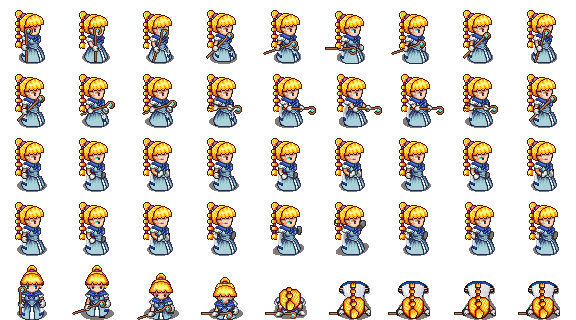
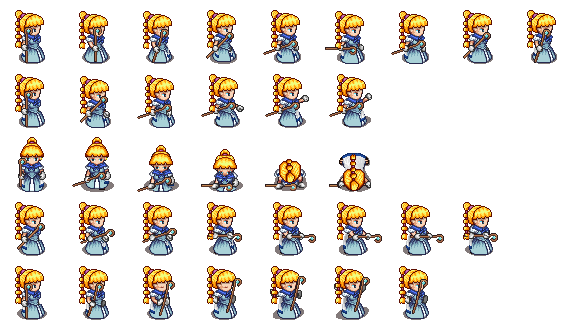
fixed some shit with animations

diff --git a/include/macros.h b/include/macros.h
@@ -32,7 +32,7 @@ constexpr float DEF_MVSPD = 5.1;
 // ----------------------------------------------
 enum CharacterAnimation
 {
-	_walk, _hurt, _idle, _death, _attack, _specialAttack, SPRITE_ROWS
+	_walk, _idle, _death, _attack, _specialAttack, SPRITE_ROWS
 };
 
 struct AnimationParams {
@@ -40,29 +40,31 @@ struct AnimationParams {
 	float _switchTime; // remove switch time because it's 0.3f for all.
 };
 
-const AnimationParams characterParams = { sf::Vector2f(10,6), 0.3f };
+const AnimationParams PlayerParams = { sf::Vector2f(9,5), 0.3f };
+const AnimationParams characterParams = { sf::Vector2f(10,5), 0.3f };
 const AnimationParams projectileParams = { sf::Vector2f(8, 1), 0.3f };
 const AnimationParams effectParams = { sf::Vector2f(5, 1), 0.3f };
 
 const std::vector<std::vector<int>> CharacterRowLengths = {
-	{ 6, 4, 9, 8, 7, 7 },
-	{ 6, 4, 7, 8, 5, 8 },
-	{ 6 ,4 ,9 ,8 ,7 ,7 },
-	{ 6, 2, 3, 4, 4, 0 },
-	{ 6, 2, 3, 4, 5, 0 },
-	{ 4, 2, 3, 2, 3, 0 }
+/* cleric*/	{9, 6, 6, 8, 7},
+/* knight*/	{9, 8, 6, 6, 7},
+/* archer*/	{9 ,6 ,6 ,8 ,7},
+/* demon */	{6, 3, 4, 4, 0},
+/* imp */	{6, 3, 4, 5, 0},
+/* miniDra*/{4, 3, 2, 3, 0}
 };
 
 const std::vector<std::vector<int>> EffectsSSLengths = { {5} };
 
-const std::vector<std::vector<int>> ProjRowlengths = { 
-	{8}, {11} , {8} , {12} , 
-	{16} , {10} , {0} 
-};
-
 // ----------------------------------------------
 //					Effects						-
 // ----------------------------------------------
+
+enum class AttackType
+{
+	Single , Multi , Self
+};
+
 enum Effects
 {
 	_heal, _damage, _defend, _drainLife, _fear, NUM_OF_EFFECTS
@@ -84,21 +86,21 @@ enum Skills
 };
 
 const float skillCooldowns[NUM_OF_CHARS][NUM_OF_SKILLS] = {
-	{1.75f, 20.f, 30.f , 100.f} ,
-	{1.65f ,30.f,  30.f, 100.f } ,
-	{1.7f, 5.f , 5.f , 100.f} ,
-	{1.5f},
-	{1.65f},
-	{1.7f}
+/* cleric*/		{1.75f, 20.f, 30.f , 100.f} ,
+/* knight*/		{1.65f ,30.f,  30.f, 100.f } ,
+/* witch*/		{1.7f, 5.f , 5.f , 100.f} ,
+/* demon*/		{1.5f},
+/* imp */		{1.65f},
+/* miniDragon*/	{1.7f}
 };
 
 const float skillFactors[NUM_OF_CHARS][NUM_OF_SKILLS] = {
-	{1.f, 1.2f, 1.75f , 1.f},
-	{1.f ,1.5f, 1.3f, 1.f },
-	{1.f, 1.5f , 1.5f , 1.f},
-	{1.f},
-	{1.f},
-	{1.f}
+/* cleric*/		{1.f, 1.2f, 1.75f , 1.f},
+/* knight*/		{1.f ,1.5f, 1.3f, 1.f},
+/* witch*/		{1.f, 1.5f , 1.5f , 1.f},
+/* demon*/		{1.f},
+/* imp */		{1.f},
+/* miniDragon*/	{1.f}
 };
 
 const std::string skillTextures[NUM_OF_PLAYERS][NUM_OF_SKILLS] ={	
@@ -128,7 +130,6 @@ const sf::Vector2f continueButtonPos(615, 450);
 const sf::Vector2f restartButtonPos(615, 500);
 const sf::Vector2f exitButtonPos(615, 550);
 const sf::Vector2f pauseButtonPos(1200, 200);
-constexpr auto singleTarget = true;
 constexpr auto onPlayer = true;
 constexpr auto isActive = true;
 
@@ -179,17 +180,23 @@ enum ObjectEnums
 enum ProjEnums
 {
 	_healBall, _fireProj, _energy, _lightning,
-	_tesla, _waterStrike, _none,
+	_tesla, _waterStrike, _fireBreath, _arrow, _none,
 	NUM_OF_PROJ
 };
 
 const std::string textures[NUM_OF_OBJECTS] = {
-	"cleric1.png" , "knightSS.png", "witch.png" ,"Demon.png",
+	"cleric.png" , "knight.png", "archer.png" ,"Demon.png",
 	"Imp.png", "miniDragon.png", "select.png" };
 
 const std::vector<std::string > ProjTextrues = { 
-	"healProj.png", "fireBlast.png", "energy.png", "lightning.png", 
-	"tesla_ball.png", "water_strike.png", "none" 
+	"healProj.png", "fireBlast2.png", "energy.png", "lightning.png", 
+	"tesla_ball.png", "water_strike.png", "fireBreath.png" ,
+	"arrow.png","none" 
+};
+
+const std::vector<std::vector<int>> ProjRowlengths = {
+	{8}, {11} , {8} , {12} ,
+	{16} , {10} , {8} , {0}
 };
 
 // Map ------------------------------------------
@@ -212,12 +219,12 @@ enum Stats
 
 const std::vector<std::vector<float>> charactersStats =
 {
-	/* cleric */ { 70.f, 2.f, 6.f, 800.f , 10.f},
-	/* knight */ { 120.f, 3.f, 15.f, 40.f , 20.f},
-	/* Witch */ { 90.f, 2.f, 2000.f, 600.f , 13.f},
-	/* dummy  */ { 80.f, 4.f, 10.f, 40.f , 15.f},
-	/* imp	  */ { 75.f , 3.f , 20.f , 400.f , 10.f},
-	/* miniDrag */ {90.f , 4.f , 25.f , 200.f , 35.f}
+	/* cleric */	{ 70.f, 2.f, 6.f, 800.f , 10.f},
+	/* knight */	{ 120.f, 3.f, 15.f, 40.f , 20.f},
+	/* witch */		{ 90.f, 2.f, 2000.f, 600.f , 13.f},
+	/* demon  */	{ 80.f, 4.f, 30.f, 40.f , 15.f},
+	/* imp	  */	{ 75.f , 3.f , 20.f , 400.f , 10.f},
+	/* miniDrag */	{90.f , 4.f , 25.f , 200.f , 35.f}
 };
 
 // Movement and Steering ------------------------

diff --git a/src/CharacterSrc/Character.cpp b/src/CharacterSrc/Character.cpp
@@ -18,7 +18,7 @@ void Character::update(sf::Vector2f steerForce, float deltaTime,
 					   vector<std::shared_ptr<Enemy>> m_enemies)
 {
 	this->m_hpBar.setPosition(this->getPosition());
-	
+
 	if (!isAlive())
 		return;
 
@@ -83,16 +83,27 @@ void Character::updateSkills(const float deltaTime, vector<std::shared_ptr<Playe
 
 	for (auto& skill : this->m_skills)
 	{
-		if (skill->getSingleTarget() && this->getTarget())
+		auto type = skill->getSkillType();
+		switch (type)
 		{
-			m_targets.push_back(locateInVector(players, enemies, this->getTarget()));
-		}
-		else if (!skill->getSingleTarget())
-		{
+		case AttackType::Single:
+			if(this->getTarget())
+				m_targets.push_back(locateInVector(players, enemies, this->getTarget()));
+			break;
+
+		case AttackType::Multi:
 			if (skill->getOnPlayer())
 				m_targets = this->createTargetVec(players);
 			else
 				m_targets = this->createTargetVec(enemies);
+			break;
+
+		case AttackType::Self:
+			m_targets.push_back(locateInVector(players, enemies , this));
+			break;
+
+		default:
+			break;
 		}
 		skill->updateSkill(deltaTime, m_targets, this->m_stats);
 	}
@@ -140,7 +151,7 @@ void Character::useBaseAttack()
 
 //=======================================================================================
 
-void Character::createSkill(int charIndex, int skillIndex, int effectIndex, bool single, bool onPlayer, bool active , int projType)
+void Character::createSkill(int charIndex, int skillIndex, int effectIndex, AttackType single, bool onPlayer, bool active , int projType)
 {
 	this->addSkill(Skill(Resources::instance().getSkillText(charIndex, skillIndex),
 		sf::Vector2f(skillIndex * (SKILL_RECT_SIZE + 20) + 30, 30),
@@ -160,10 +171,7 @@ void Character::useSkill(int skillIndex)
 void Character::setStat(int index, int newVal)
 { 
 	if (index == _hp)
-	{
 		this->showHpBar();
-		this->setAnimation(_hurt);
-	}
 		
 	this->m_stats[index]->setStat(newVal); 
 }
@@ -174,6 +182,7 @@ void Character::setDying()
 {
 	this->setAnimation(_death);
 	this->m_isDying = true;
+	this->m_hpBar.updateHealthBar(m_stats[_hp]->getStat(), this->getPosition());
 	this->m_deathTimer.setTimer();
 }
 

diff --git a/src/CharacterSrc/Player.cpp b/src/CharacterSrc/Player.cpp
@@ -2,9 +2,9 @@
 #include "Characters/Player.h"
 
 Player::Player(const sf::Vector2f loc , int index)
-	: Character(loc, index, characterParams), m_selected(false)
+	: Character(loc, index, PlayerParams), m_selected(false)
 {
-	
+	setScale({ 1.5f , 1.5f });
 }
 
 //===========================================================
@@ -17,19 +17,8 @@ void Player::draw(sf::RenderWindow& window)
 	drawSkills(window, m_selected);
 	getHpBar().draw(window);
 	window.draw(this->getSprite());
-	//auto bound = this->getSprite().getLocalBounds();
-	//auto rect = sf::RectangleShape();
-	//rect.setSize({ bound.width, bound.height });
-	//rect.setOutlineThickness(3);
-	//rect.setFillColor(sf::Color::Transparent);
-	//rect.setPosition(this->getPosition());
-	//rect.setOrigin(bound.width / 2, bound.height / 2);
-	//window.draw(rect);
+
 }
-
-//==========================================================
-
-//==========================================================
 
 //==========================================================
 
@@ -55,7 +44,7 @@ bool Player::checkIntersection() const
 	if (this->getTarget())
 		return (norm <= this->getStat(_range));
 
-	auto epsilon = 10.f;
+	const auto epsilon = 10.f;
 	return norm <= epsilon;
 }
 

diff --git a/src/HealthBar.cpp b/src/HealthBar.cpp
@@ -21,8 +21,16 @@ void HealthBar::updateHealthBar(float statVal, const sf::Vector2f& pos)
 
 	if (healthLost > 0.f && m_hitTimer.isTimeUp() ) // lowered damage
 	{
-		m_hitHealth.setSize(sf::Vector2f(currSize, size.y));
+		m_hitDamage.setFillColor(sf::Color::Red);
 		m_hitDamage.setString(std::to_string(int(healthLost)));
+		m_hitHealth.setSize({ currSize, size.y });
+		m_hitTimer.setTimer();
+	}
+	else if (healthLost < 0.f)
+	{
+		m_hitDamage.setFillColor(sf::Color::Green);
+		m_hitDamage.setString(std::to_string(int(-healthLost)));
+		m_hitHealth.setSize({ statVal, size.y });
 		m_hitTimer.setTimer();
 	}
 
@@ -79,7 +87,8 @@ void HealthBar::setPosition(const sf::Vector2f pos)
 void HealthBar::initText(const sf::Vector2f pos)
 {
 	m_hitDamage.setCharacterSize(20);
-	m_hitDamage.Bold;
+	m_hitDamage.setOutlineThickness(2);
+	m_hitDamage.setStyle(sf::Text::Bold);
 	m_hitDamage.setColor(sf::Color::Black);
 	m_hitDamage.setFont(*Resources::instance().getFont());
 	m_hitDamage.setOrigin(m_hitDamage.getOrigin() + healthTextOffset);

diff --git a/include/Skills/Skill.h b/include/Skills/Skill.h
@@ -15,7 +15,7 @@ class Skill
 {
 public:
 	Skill(sf::Texture* texture, const sf::Vector2f pos, float cooldown,
-		const int effectIndex, bool singleTarget, bool onPlayer, bool isActive , float factor , int projType);
+		const int effectIndex, AttackType type , bool onPlayer, bool isActive , float factor , int projType);
 	~Skill() = default;
 
 	// Management
@@ -26,7 +26,7 @@ public:
 
 	// Getters
 	bool getOnPlayer() const { return this->m_onPlayer; }
-	bool getSingleTarget() const { return this->m_singleTarget; }
+	AttackType getSkillType() const { return this->m_type; }
 	bool getIsActive() const { return this->m_isActive; }
 
 	void draw(sf::RenderWindow& window, bool);
@@ -38,7 +38,7 @@ private:
 	int m_projType;
 	// Settings of the skill
 	Effect* m_effect;
-	bool m_singleTarget;
+	AttackType m_type;
 	bool m_onPlayer;
 	bool m_isActive;
 	Timer m_timer;

diff --git a/src/CharacterSrc/Cleric.cpp b/src/CharacterSrc/Cleric.cpp
@@ -24,8 +24,8 @@ bool Cleric::setTarget(std::shared_ptr<Enemy>) // cleric can't have enemy target
 
 void Cleric::initSkills(const int index)
 {
-	this->createSkill(index, _basic, _heal, singleTarget, onPlayer, !isActive,_healBall); // basic
-	this->createSkill(index, _skill1, _heal, !singleTarget, onPlayer, isActive, _healBall); // multi heal
-	this->createSkill(index, _skill2, _defend, singleTarget, onPlayer, isActive , _none ); // shield
+	this->createSkill(index, _basic, _heal, AttackType::Single, onPlayer, !isActive,_healBall); // basic
+	this->createSkill(index, _skill1, _heal, AttackType::Multi, onPlayer, isActive, _healBall); // multi heal
+	this->createSkill(index, _skill2, _defend, AttackType::Single , onPlayer, isActive , _none ); // shield
 }
 

diff --git a/src/CharacterSrc/Witch.cpp b/src/CharacterSrc/Witch.cpp
@@ -9,7 +9,7 @@ Witch::Witch(const sf::Vector2f pos)
 
 void Witch::initSkills(const int index)
 {
-	this->createSkill(index, _basic, _damage, singleTarget, !onPlayer, !isActive , _energy); // basic
-	this->createSkill(index, _skill1, _drainLife, singleTarget, !onPlayer, isActive, _tesla ); // aimed shot
-	this->createSkill(index, _skill2, _damage, !singleTarget, !onPlayer, isActive , _lightning); // multi hit shot
+	this->createSkill(index, _basic, _damage, AttackType::Single, !onPlayer, !isActive , _energy); // basic
+	this->createSkill(index, _skill1, _drainLife, AttackType::Single, !onPlayer, isActive, _tesla ); // aimed shot
+	this->createSkill(index, _skill2, _damage, AttackType::Multi, !onPlayer, isActive , _lightning); // multi hit shot
 }

diff --git a/src/CharacterSrc/Knight.cpp b/src/CharacterSrc/Knight.cpp
@@ -9,8 +9,8 @@ Knight::Knight(const sf::Vector2f pos)
 
 void Knight::initSkills(const int index)
 {
-	this->createSkill(index, _basic, _damage, singleTarget, !onPlayer, !isActive,_none); // basic
-	this->createSkill(index, _skill1, _defend, singleTarget, onPlayer, isActive,_none); // shield wall
-	this->createSkill(index, _skill2, _fear, singleTarget, !onPlayer, isActive, _none); // intimidate
+	this->createSkill(index, _basic, _damage, AttackType::Single, !onPlayer, !isActive,_none); // basic
+	this->createSkill(index, _skill1, _defend, AttackType::Self, onPlayer, isActive,_none); // shield wall
+	this->createSkill(index, _skill2, _fear	, AttackType::Multi, !onPlayer, isActive, _none); // intimidate
 }
 

diff --git a/include/Characters/Character.h b/include/Characters/Character.h
@@ -62,7 +62,7 @@ public:
 protected:
 	
 	void createSkill(int CharIndex, int skillIndex, int effectIndex,
-					 bool single, bool onPlayer, bool active, int projType);
+					 AttackType single, bool onPlayer, bool active, int projType);
 	void addSkill(Skill skill) { m_skills.push_back(std::make_unique<Skill>(skill)); }
 	void useSkill(int index);
 	vector<std::shared_ptr<Stat>>& getStats() { return this->m_stats; }
@@ -84,6 +84,9 @@ private:
 	// Movement
 	SteeringInterface* m_steering;
 	sf::Vector2f m_velocity;
+
+	vector < std::pair<Timer, float> > m_buffTimers;
+	// used for handleing the buffs given to the character
 
 
 	HealthBar m_hpBar;

diff --git a/src/EffectSrc/LifeDrain.cpp b/src/EffectSrc/LifeDrain.cpp
@@ -9,7 +9,7 @@ LifeDrain::LifeDrain(AnimationParams animParams)
 void LifeDrain::affect(float baseValue, vector<std::shared_ptr<Stat>> myStats, Character* target, float factor)
 {
 	auto currHP = target->getStat(_hp);
-	auto dmgByDefence = (myStats[_dmg]->getStat() + baseValue) * ((float(myStats[_dmg]->getStat()) * factor / 100));
+	auto dmgByDefence = (myStats[_dmg]->getStat() * factor / target->getStat(_defence)) ;
 	target->setStat(_hp, currHP - dmgByDefence);
 	myStats[_hp]->setStat(myStats[_hp]->getStat() + dmgByDefence * 0.5);
 }

diff --git a/src/SkillSrc/Skill.cpp b/src/SkillSrc/Skill.cpp
@@ -3,8 +3,8 @@
 #include "Characters/Character.h"
 
 Skill::Skill(sf::Texture* texture, const sf::Vector2f pos, float cooldown,
-	const int effectIndex, bool singleTarget, bool onPlayer, bool isActive , float factor , int projType)
-	: m_timer(Timer(cooldown)), m_singleTarget(singleTarget),
+	const int effectIndex, AttackType type, bool onPlayer, bool isActive , float factor , int projType)
+	: m_timer(Timer(cooldown)), m_type(type),
 	m_onPlayer(onPlayer), m_isActive(isActive) , m_factor(factor)
 {
 	this->m_projType = projType;

diff --git a/src/EffectSrc/Damage.cpp b/src/EffectSrc/Damage.cpp
@@ -9,6 +9,6 @@ Damage::Damage(AnimationParams animParams)
 void Damage::affect(float baseValue, vector<std::shared_ptr<Stat>> myStats, Character* target , float factor)
 {
 	auto currHP = target->getStat(_hp);
-	auto dmgByDefence = (myStats[_dmg]->getStat() + baseValue) * ((float(myStats[_defend]->getStat()) * factor / 100));
+	auto dmgByDefence = ( myStats[_dmg]->getStat() * factor / target->getStat(_defence) ) ;
 	target->setStat(_hp, currHP - dmgByDefence);
 }
